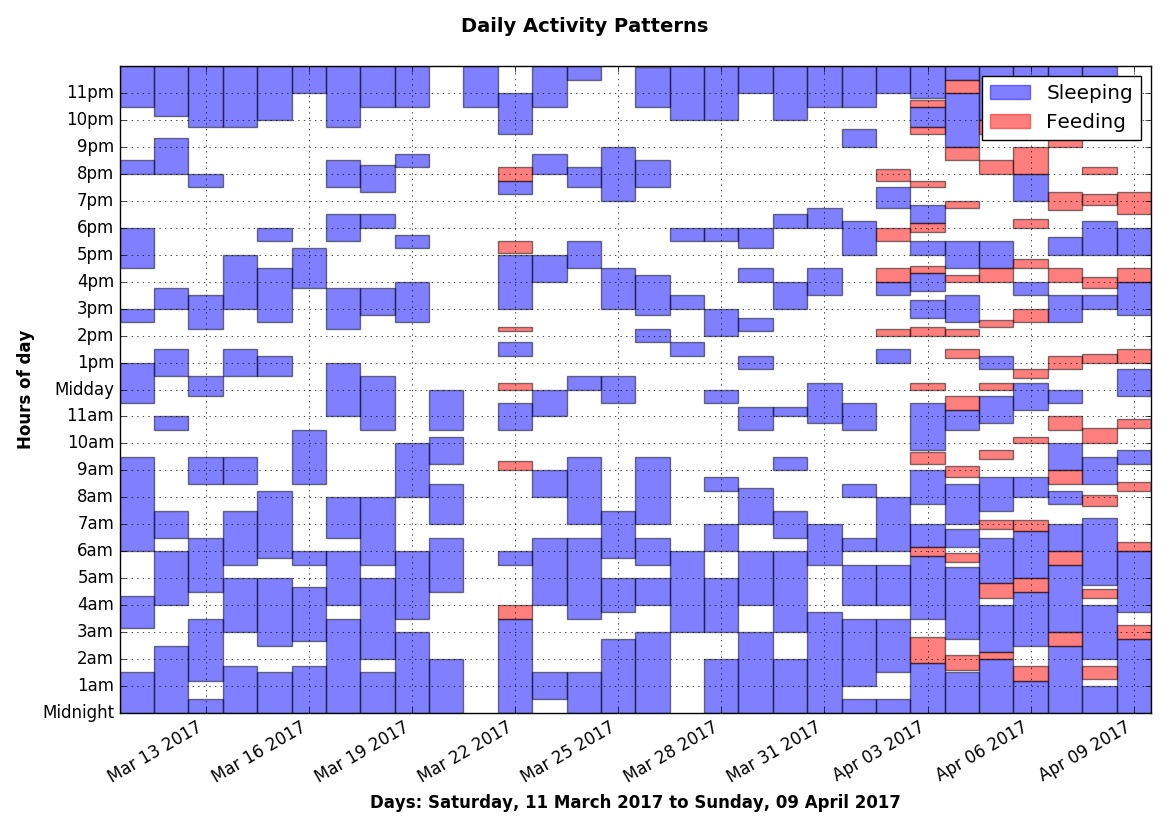
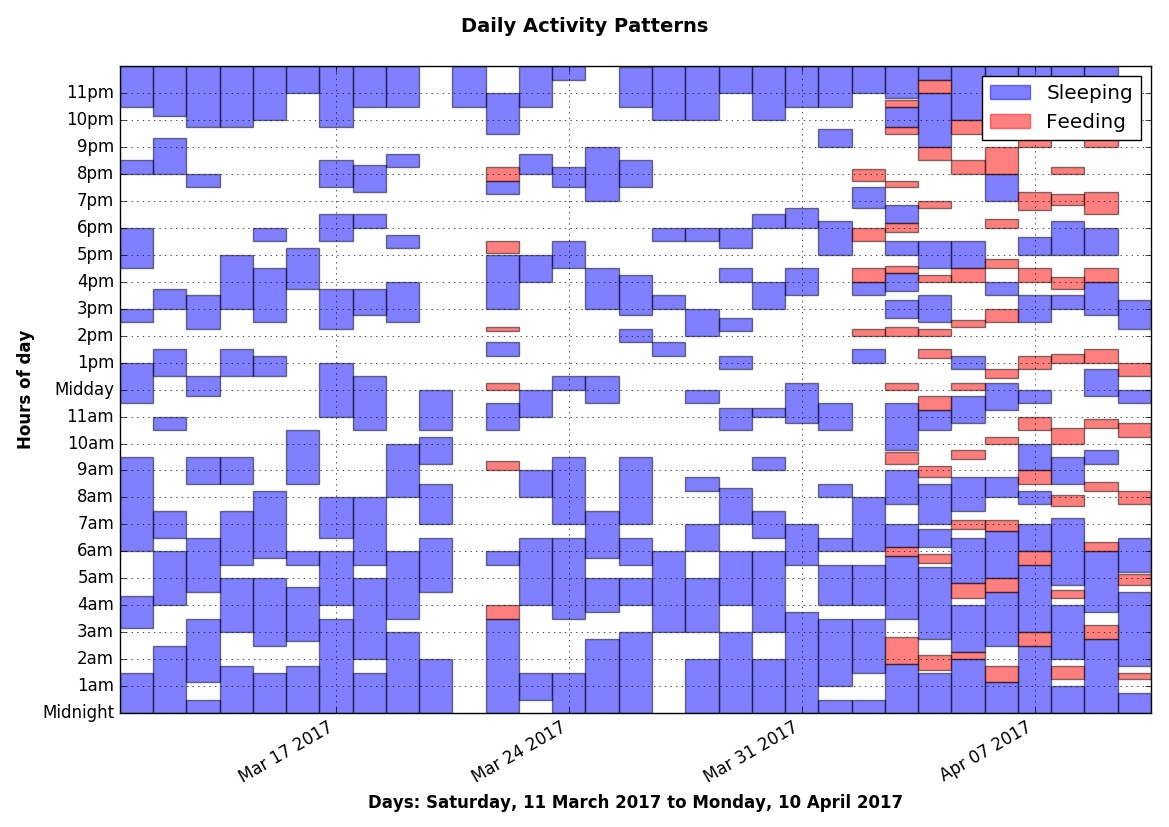
Data update.

diff --git a/regressionAnalysis.py b/regressionAnalysis.py
@@ -129,7 +129,9 @@ def regress(dataItems):
 def writeSleepAnalysisDataToFile(dataItemsList):
     with open('sleepAnalysisData.csv','wb') as csvfile:
         w = csv.writer(csvfile)
+        # Write name rows header
         w.writerow(['date','hoursSleptNight','hoursSleptDay','longestSleepHoursDay','longestSleepHourNight','meanSleepTimeDay'])
+        # Write data rows
         for item in dataItemsList:
             w.writerow([str(item.startDate),str(item.hoursSleptDuringNight),str(item.hoursSleptDuringDay),str(item.longestDaySleepHours),str(item.longestNightSleepHours),str(item.meanSleepTimeDayHoursSinceMidnight)])
 

diff --git a/timeLog.py b/timeLog.py
@@ -24,7 +24,7 @@ def plotData(data,maxDate,minDate):
     # int used so that y-axis starts at midnight
     times = x % 1 + int(x[0])
     
-    fig = plt.figure()
+    fig = plt.figure(figsize=(20,10))
     fig.set_size_inches(11.69,8.27)
     fig.suptitle('Daily Activity Patterns', fontsize=14, fontweight='bold')
     ax = fig.add_subplot(111)
